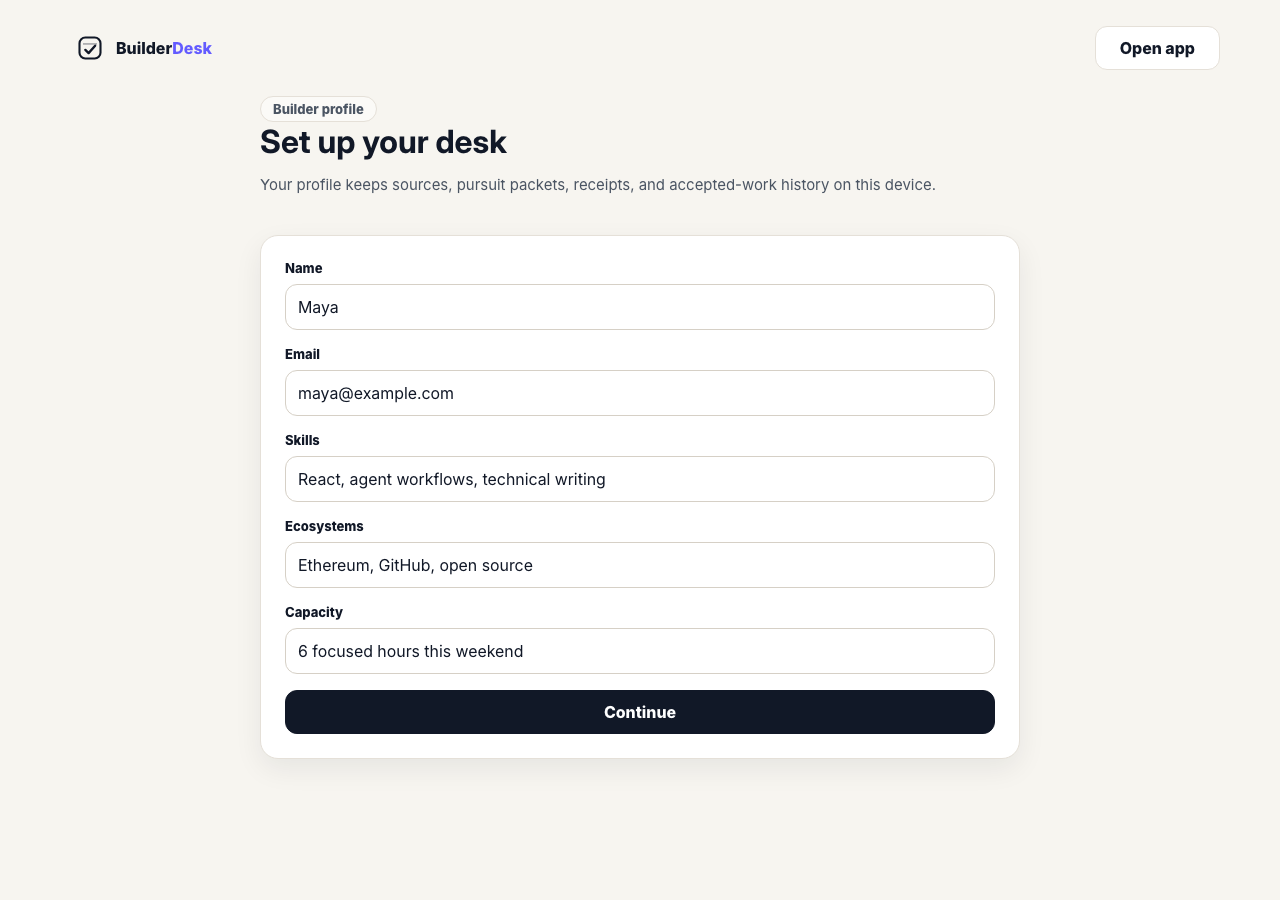
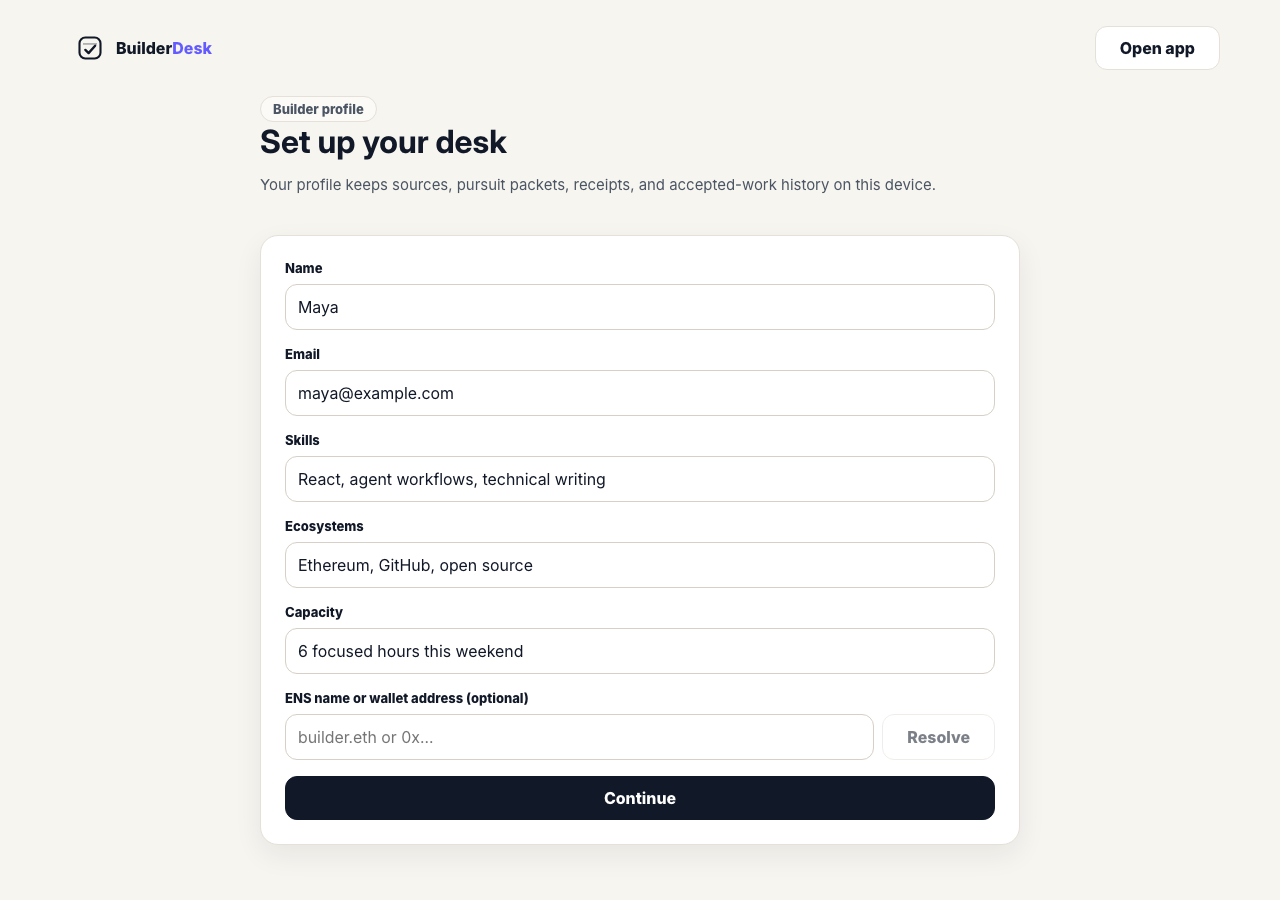
Redesign the landing into a real multi-section page
Replace the single-hero landing with: a framed product preview (live
score-meter ring + opportunity chips + gold receipt), an honest
capability strip surfacing the sponsor work (ENS live, Privy/Google
Cloud configured), the full loop laid out as numbered steps, and cockpit
surface cards carrying the agent-purple and receipt-gold accents. Move
Landing to its own screen file; styles in landing.css.

Verified: build, lint, test.

Changed region(s): [[0.2188, 0.7467, 0.7812, 0.9333]]

diff --git a/src/screens/Landing.tsx b/src/screens/Landing.tsx
@@ -1,0 +1,101 @@
+import { Badge, Button, PublicShell } from '../components'
+import { ScoreMeter } from '../ui/product'
+import { navigate } from '../router'
+
+const loop: Array<[string, string]> = [
+  ['Import', 'Pull a live GitHub issue or pull request into one place.'],
+  ['Score', 'Rank it by source health, clarity, reward, and recency.'],
+  ['Pursue', 'Turn the best one into a focused pursuit packet.'],
+  ['Package', 'Bounded agent help, assembled behind human release.'],
+  ['Receipt', 'Accepted work becomes a verifiable receipt.'],
+  ['Profile', 'Proof compounds into a stronger builder profile.'],
+]
+
+const capabilities: Array<[string, string]> = [
+  ['Live GitHub import · Live', 'good'],
+  ['ENS identity · Live', 'good'],
+  ['Privy wallet · Configured', 'warn'],
+  ['Google Cloud insight · Configured', 'warn'],
+]
+
+export function Landing() {
+  return (
+    <PublicShell>
+      <section className="hero">
+        <div className="hero-copy">
+          <span className="eyebrow">Live work sources · Human release</span>
+          <h1>Work radar for serious builders.</h1>
+          <p className="lead">
+            Find funded work, run an accountable agent-assisted pursuit, and turn accepted work into reusable proof — without losing the thread.
+          </p>
+          <div className="actions">
+            <Button variant="primary" onClick={() => navigate('/onboarding')}>Build my work radar</Button>
+            <Button onClick={() => navigate('/brand-lab')}>Open brand lab</Button>
+          </div>
+          <div className="cap-strip">
+            {capabilities.map(([label, tone]) => <Badge key={label} label={label} tone={tone} />)}
+          </div>
+        </div>
+
+        <div className="hero-preview" aria-hidden="true">
+          <div className="preview-card">
+            <div className="preview-head"><span className="preview-dot" /><span className="preview-dot" /><span className="preview-dot" /> builderdesk · radar</div>
+            <div className="preview-row">
+              <ScoreMeter score={87} tone="good" />
+              <div className="preview-main">
+                <div className="preview-title">Trade-offs in Control Flow Analysis</div>
+                <div className="preview-chips">
+                  <span className="meta-chip"><span className="meta-chip-label">Reward</span><span className="meta-chip-value">$1,500</span></span>
+                  <span className="meta-chip"><span className="meta-chip-label">State</span><span className="meta-chip-value">open</span></span>
+                </div>
+              </div>
+              <Badge label="Pursue" tone="good" />
+            </div>
+            <div className="preview-receipt">
+              <span className="eyebrow">Accepted-work receipt</span>
+              <div className="ticket-number tnum">#BD1</div>
+              <p>Human released · Locally verified</p>
+            </div>
+          </div>
+        </div>
+      </section>
+
+      <section className="band">
+        <h2>One loop, end to end.</h2>
+        <div className="loop-grid">
+          {loop.map(([title, body], index) => (
+            <div className="loop-step" key={title}>
+              <span className="loop-num tnum">{index + 1}</span>
+              <div className="loop-title">{title}</div>
+              <p>{body}</p>
+            </div>
+          ))}
+        </div>
+      </section>
+
+      <section className="band">
+        <h2>Built like a cockpit, not a feed.</h2>
+        <div className="surface-grid">
+          <div className="surface-card">
+            <Badge label="Opportunity radar" tone="info" />
+            <h3>Decide at a glance</h3>
+            <p>Ranked rows with a live score, source health, and reward signals — so you know what's worth pursuing.</p>
+          </div>
+          <div className="surface-card agent-panel">
+            <Badge label="Accountable agent" tone="agent" />
+            <h3>Bounded help</h3>
+            <p>Every agent shows allowed and blocked actions, and nothing ships without human release.</p>
+          </div>
+          <div className="surface-card receipt-card">
+            <Badge label="Accepted-work receipt" tone="warn" />
+            <h3>Reusable proof</h3>
+            <p>Accepted work becomes a verifiable receipt that compounds on your builder profile.</p>
+          </div>
+        </div>
+        <div className="band-cta">
+          <Button variant="primary" onClick={() => navigate('/onboarding')}>Build my work radar</Button>
+        </div>
+      </section>
+    </PublicShell>
+  )
+}

diff --git a/src/styles/landing.css b/src/styles/landing.css
@@ -1,0 +1,174 @@
+.hero {
+  display: grid;
+  grid-template-columns: minmax(0, 1fr) 440px;
+  gap: var(--space7);
+  align-items: center;
+  width: min(100% - 32px, 1160px);
+  margin: 56px auto 0;
+}
+
+.hero-copy .actions {
+  margin-top: var(--space5);
+}
+
+.cap-strip {
+  display: flex;
+  flex-wrap: wrap;
+  gap: var(--space2);
+  margin-top: var(--space5);
+}
+
+/* Hero product preview — a framed snapshot of the real cockpit. */
+.preview-card {
+  padding: var(--space4);
+  border: 1px solid var(--line);
+  border-radius: var(--radius-xl);
+  background: var(--surface);
+  box-shadow: 0 30px 70px rgba(17, 24, 39, 0.12);
+}
+
+.preview-head {
+  display: flex;
+  align-items: center;
+  gap: 6px;
+  padding-bottom: var(--space3);
+  border-bottom: 1px solid var(--line);
+  color: var(--ink-muted);
+  font-size: var(--micro-size);
+  font-weight: 800;
+}
+
+.preview-dot {
+  width: 9px;
+  height: 9px;
+  border-radius: 999px;
+  background: var(--line-strong);
+}
+
+.preview-row {
+  display: grid;
+  grid-template-columns: auto minmax(0, 1fr) auto;
+  gap: var(--space3);
+  align-items: center;
+  padding: var(--space4) 0;
+}
+
+.preview-title {
+  font-weight: 800;
+  letter-spacing: -0.01em;
+}
+
+.preview-chips {
+  display: flex;
+  flex-wrap: wrap;
+  gap: var(--space2);
+  margin-top: var(--space2);
+}
+
+.preview-receipt {
+  margin-top: var(--space2);
+  padding: var(--space4);
+  border: 1px solid var(--receipt);
+  border-radius: var(--radius-lg);
+  background: linear-gradient(180deg, #ffe9b0, #ffd97a);
+}
+
+.preview-receipt p {
+  margin: 0;
+  color: var(--ink);
+  font-weight: 700;
+}
+
+.preview-receipt .ticket-number {
+  font-size: 40px;
+}
+
+/* Content bands */
+.band {
+  width: min(100% - 32px, 1160px);
+  margin: 0 auto;
+  padding: var(--space7) 0;
+}
+
+.band > h2 {
+  margin-bottom: var(--space5);
+}
+
+.loop-grid {
+  display: grid;
+  grid-template-columns: repeat(6, 1fr);
+  gap: var(--space3);
+}
+
+.loop-step {
+  padding: var(--space4);
+  border: 1px solid var(--line);
+  border-radius: var(--radius-lg);
+  background: var(--surface);
+}
+
+.loop-num {
+  display: grid;
+  place-items: center;
+  width: 28px;
+  height: 28px;
+  border-radius: 999px;
+  background: var(--accent-soft);
+  color: var(--accent);
+  font-weight: 800;
+  font-size: var(--small-size);
+}
+
+.loop-title {
+  margin: var(--space3) 0 var(--space1);
+  font-weight: 800;
+}
+
+.loop-step p {
+  margin: 0;
+  font-size: var(--small-size);
+  line-height: var(--small-line);
+}
+
+.surface-grid {
+  display: grid;
+  grid-template-columns: repeat(3, 1fr);
+  gap: var(--space4);
+}
+
+.surface-card {
+  position: relative;
+  overflow: hidden;
+  padding: var(--space5);
+  border: 1px solid var(--line);
+  border-radius: var(--radius-lg);
+  background: var(--surface);
+}
+
+.surface-card h3 {
+  margin: var(--space3) 0 var(--space2);
+}
+
+.surface-card p {
+  margin: 0;
+}
+
+.band-cta {
+  margin-top: var(--space6);
+}
+
+@media (max-width: 860px) {
+  .hero {
+    grid-template-columns: 1fr;
+    gap: var(--space6);
+    margin-top: var(--space6);
+  }
+
+  .loop-grid {
+    grid-template-columns: repeat(2, 1fr);
+  }
+
+  .surface-grid {
+    grid-template-columns: 1fr;
+  }
+}

diff --git a/src/screens/PublicScreens.tsx b/src/screens/PublicScreens.tsx
@@ -7,40 +7,6 @@ import type { EnsIdentity } from '../domain/ens'
 import { useBuilderAuth } from '../auth/privy'
 import { Badge, Button, Field, PageHeader, PublicShell } from '../components'
 
-export function Landing() {
-  return (
-    <PublicShell>
-      <section className="hero-page">
-        <div>
-          <span className="eyebrow">Live work sources. Human release.</span>
-          <h1>Work radar for serious builders.</h1>
-          <p className="lead">
-            BuilderDesk pulls live work from GitHub, turns it into pursuit packets, keeps agent help accountable, and produces receipts when work is accepted.
-          </p>
-          <div className="actions">
-            <Button variant="primary" onClick={() => navigate('/onboarding')}>Build my work radar</Button>
-            <Button onClick={() => navigate('/brand-lab')}>Open brand lab</Button>
-          </div>
-          <div className="flow-line" aria-label="BuilderDesk loop">
-            {['Import', 'Score', 'Pursue', 'Package', 'Receipt', 'Profile'].map((step) => (
-              <span className="flow-pill" key={step}>{step}</span>
-            ))}
-          </div>
-        </div>
-        <div className="panel ticket-visual" aria-label="BuilderDesk receipt preview">
-          <span className="badge info">Accepted-work receipt</span>
-          <div className="ticket">
-            <p>Source</p>
-            <h3>GitHub issue</h3>
-            <div className="ticket-number">#BD1</div>
-            <p>Human released. Locally verified.</p>
-          </div>
-        </div>
-      </section>
-    </PublicShell>
-  )
-}
-
 export function Onboarding({ setState }: { setState: ReturnType<typeof useAppState>['setState'] }) {
   const [name, setName] = useState('Maya')
   const [email, setEmail] = useState('maya@example.com')

diff --git a/src/App.tsx b/src/App.tsx
@@ -1,7 +1,8 @@
 import { OrganizerShell } from './components'
 import { routeParam, usePath } from './router'
 import { BrandLab } from './screens/BrandLab'
-import { Landing, Onboarding } from './screens/PublicScreens'
+import { Landing } from './screens/Landing'
+import { Onboarding } from './screens/PublicScreens'
 import {
   Home,
   Profile,

diff --git a/src/styles.css b/src/styles.css
@@ -3,4 +3,5 @@
 @import './styles/layout.css';
 @import './styles/ui.css';
 @import './styles/rows.css';
+@import './styles/landing.css';
 @import './styles/brand-lab.css';
